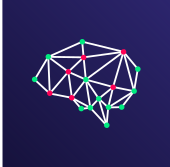
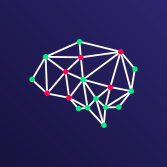
concluindo a pagina de erro 404

Changed region(s): [[0.1796, 0.2096, 0.8383, 0.7784], [0.0, 0.0, 0.0299, 1.0]]

diff --git a/src/pages/Error404/index.tsx b/src/pages/Error404/index.tsx
@@ -1,9 +1,22 @@
 import React from 'react';
 
-// import { Container } from './styles';
+import imgError from '../../assets/404.svg';
+import ButtonLink from '../../components/ButtonLink';
+
+import { Container } from './styles';
 
 const Error404: React.FC = () => {
-  return <h1>Erro 404</h1>;
+  return (
+    <Container>
+      <img src={imgError} alt="imagem de erro" />
+
+      <h1>Página não encontrada</h1>
+
+      <ButtonLink to="/" color="play">
+        Voltar para o início
+      </ButtonLink>
+    </Container>
+  );
 };
 
 export default Error404;

diff --git a/src/pages/Error404/styles.ts b/src/pages/Error404/styles.ts
@@ -1,0 +1,26 @@
+import styled from 'styled-components';
+
+export const Container = styled.div`
+  display: flex;
+  flex-direction: column;
+  align-items: center;
+  justify-content: center;
+
+  img {
+    width: 100%;
+    max-width: 260px;
+  }
+
+  h1 {
+    font-weight: bold;
+    font-size: 48px;
+    color: #fff;
+    margin-top: 30px;
+    text-align: center;
+  }
+
+  a {
+    max-width: 300px;
+    margin-top: 30px;
+  }
+`;
